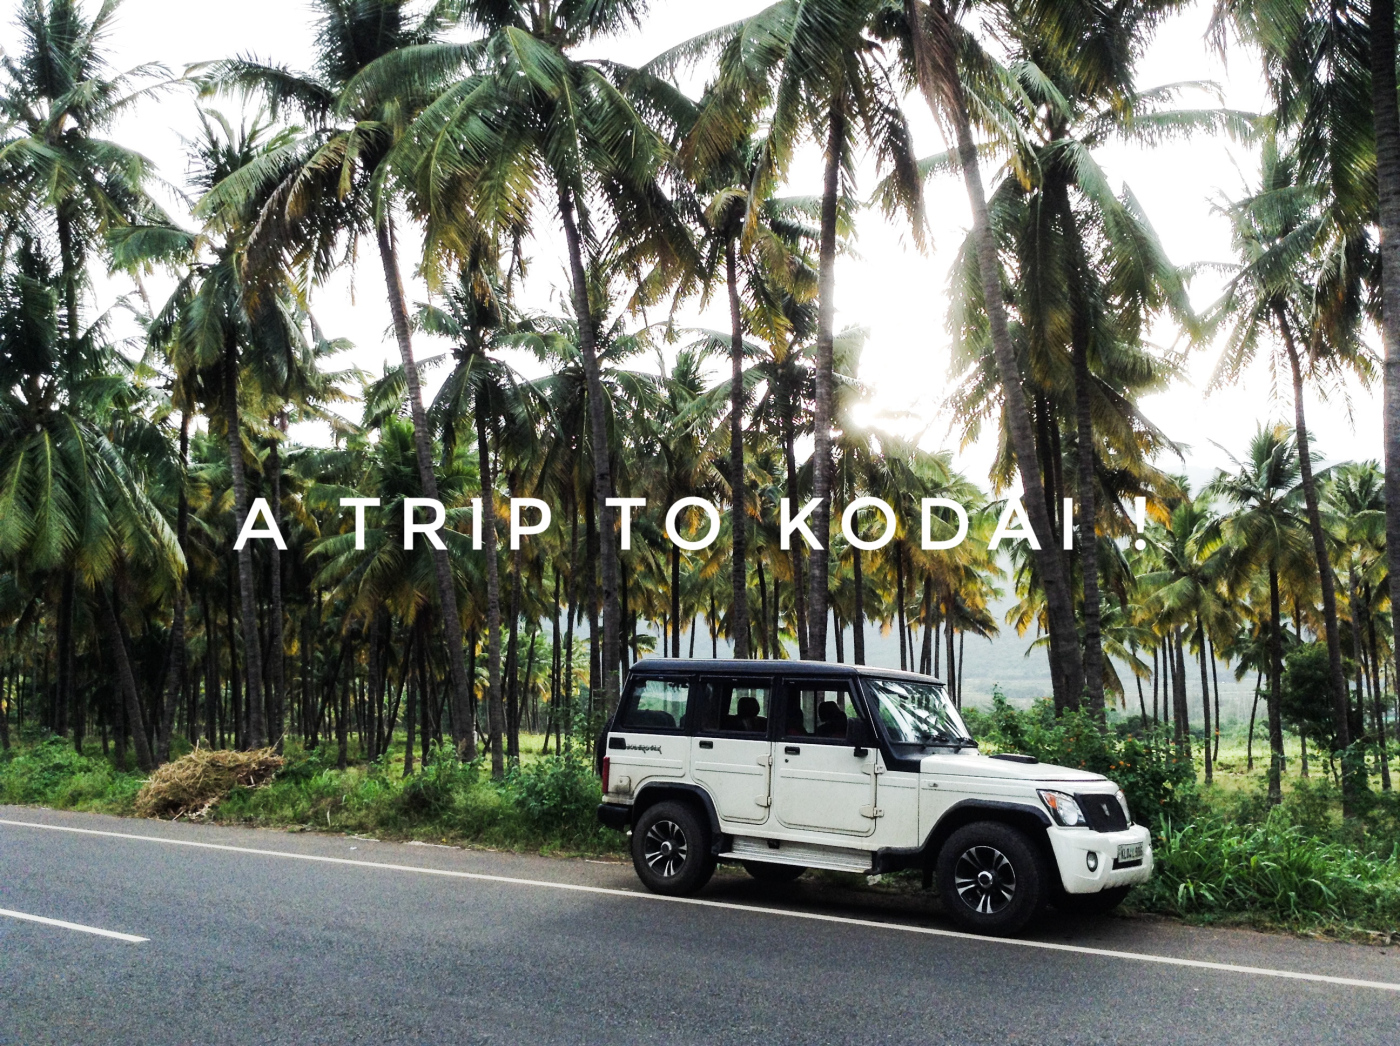
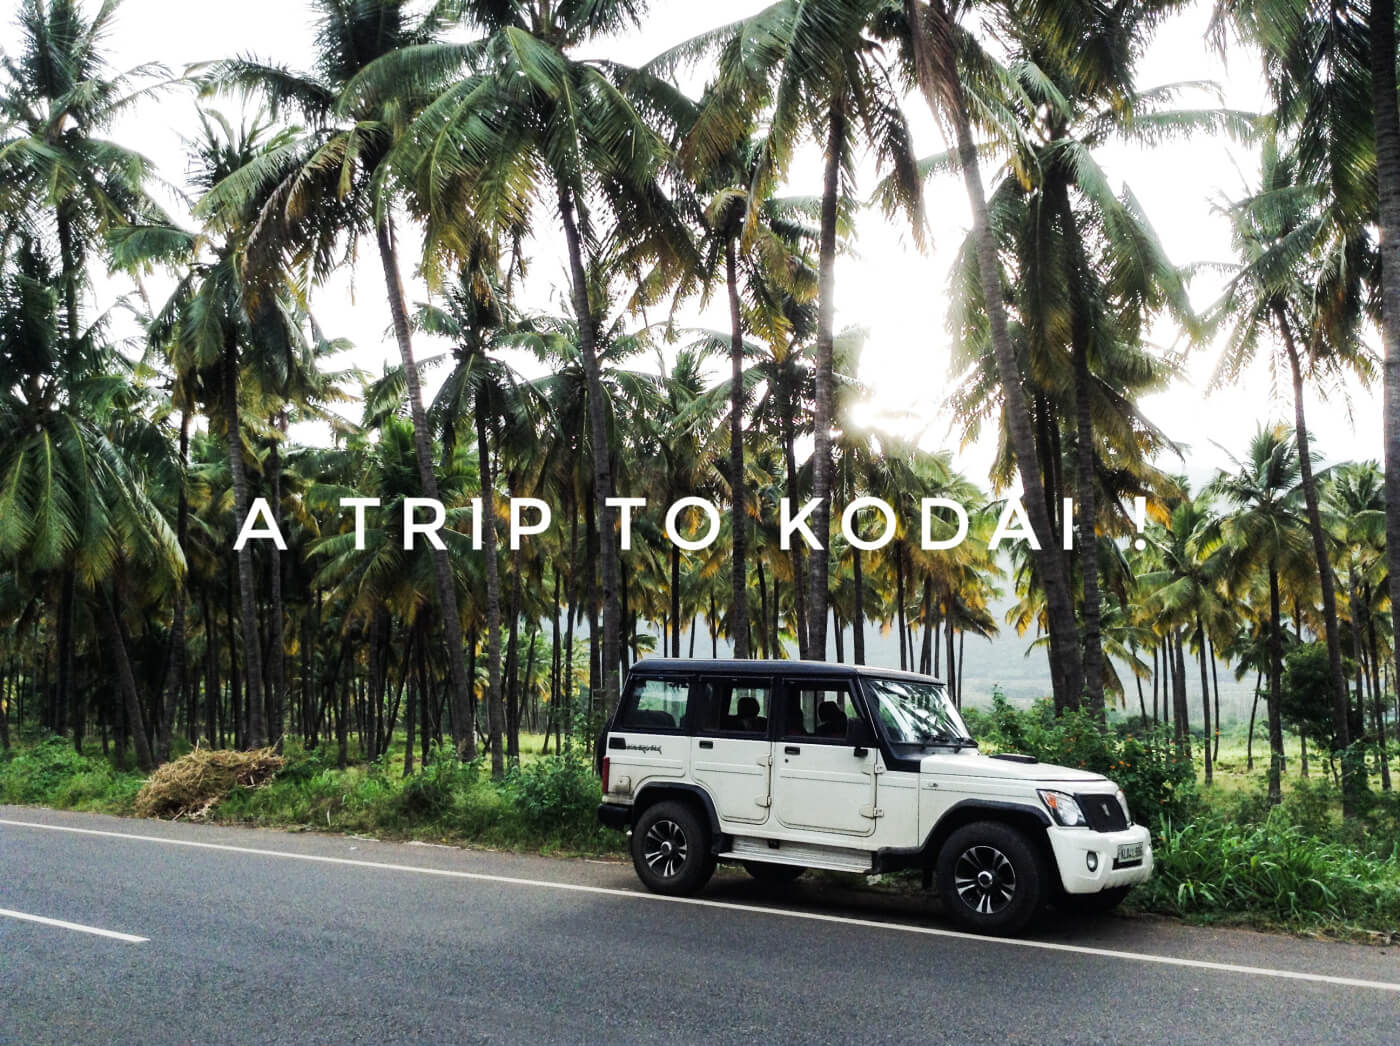
Links changed
Added new Blog, and image compressed

Changed region(s): [[0.5529, 0.3977, 0.5836, 0.4283]]

diff --git a/index.html b/index.html
@@ -31,23 +31,26 @@
                 <div class="container box_1620">
                     <!-- Brand and toggle get grouped for better mobile display -->
                     <!-- <a class="navbar-brand logo_h" href="index.html"><img src="img/logo.png" alt=""></a> -->
-                    <button class="navbar-toggler" type="button" data-toggle="collapse" data-target="#navbarSupportedContent" aria-controls="navbarSupportedContent" aria-expanded="false" aria-label="Toggle navigation">
-						<span class="icon-bar"></span>
-						<span class="icon-bar"></span>
-						<span class="icon-bar"></span>
-					</button>
+                    <button class="navbar-toggler" type="button" data-toggle="collapse"
+                        data-target="#navbarSupportedContent" aria-controls="navbarSupportedContent"
+                        aria-expanded="false" aria-label="Toggle navigation">
+                        <span class="icon-bar"></span>
+                        <span class="icon-bar"></span>
+                        <span class="icon-bar"></span>
+                    </button>
                     <!-- Collect the nav links, forms, and other content for toggling -->
                     <div class="collapse navbar-collapse offset" id="navbarSupportedContent">
                         <ul class="nav navbar-nav menu_nav ml-auto">
                             <li class="nav-item active">
                                 <a class="nav-link" href="index.html">
-									Home
-								</a>
+                                    Home
+                                </a>
                             </li>
                             <li class="nav-item"><a class="nav-link" href="about-us.html">About</a></li>
                             <li class="nav-item submenu dropdown">
                                 <a href="project.html" class="nav-link">Projects</a></li>
-                            <li class="nav-item submenu dropdown"><a href="https://www.blog.sijusamson.com/" target="_blank" class="nav-link">Blog</a></li>
+                            <li class="nav-item submenu dropdown"><a href="https://www.blog.sijusamson.com/"
+                                    target="_blank" class="nav-link">Blog</a></li>
                             <!-- <li class="nav-item"><a class="nav-link" href="contact.html">Contact</a></li> -->
                         </ul>
                     </div>
@@ -71,27 +74,29 @@
                                 <h6>Hello Everybody, I am</h6>
                                 <h3>Siju Samson</h3>
                                 <h4>A Software Developer</h4>
-                                <p>I am passionate about crafting user-friendly experiences and building ground-breaking applications.
+                                <p>I am passionate about crafting user-friendly experiences and building ground-breaking
+                                    applications.
                                 </p>
                                 <ul class="list basic_info">
                                     <li><a href="#"><i class="lnr lnr-calendar-full"></i> 4th June, 1995</a></li>
                                     <!-- <li><a href="#"><i class="lnr lnr-phone-handset"></i> 44 (012) 6954 783</a></li> -->
                                     <li><a href="mailto:sijusamson@gmail.com"><i class="lnr lnr-envelope"></i>
-											sijusamson@gmail.com</a></li>
+                                            sijusamson@gmail.com</a></li>
                                     <li><a href="#"><i class="lnr lnr-home"></i> Delhi, India</a></li>
                                 </ul>
                                 <ul class="list personal_social">
-                                    <li><a href="https://www.linkedin.com/in/siju-samson/"><i
-												class="fa fa-linkedin" aria-hidden="true"></i></a></li>
+                                    <li><a href="https://www.linkedin.com/in/siju-samson/"><i class="fa fa-linkedin"
+                                                aria-hidden="true"></i></a></li>
                                     <li><a href="https://github.com/sijusamson"><i class="fa fa-github"
-												aria-hidden="true"></i></a></li>
+                                                aria-hidden="true"></i></a></li>
                                     <li><a href="https://stackoverflow.com/users/9721458/siju-samson?tab=topactivity"><i
-												class="fa fa-stack-overflow" aria-hidden="true"></i></a></li>
-                                    <li><a href="https://twitter.com/SamsonSiju"><i class="fa fa-twitter" aria-hidden="true"></i></a></li>
+                                                class="fa fa-stack-overflow" aria-hidden="true"></i></a></li>
+                                    <li><a href="https://twitter.com/SamsonSiju"><i class="fa fa-twitter"
+                                                aria-hidden="true"></i></a></li>
                                     <li><a href="https://www.instagram.com/sijusamson/?hl=en"><i
-												class="fa fab fa-instagram" aria-hidden="true"></i></a></li>
+                                                class="fa fab fa-instagram" aria-hidden="true"></i></a></li>
                                     <li><a href="https://www.facebook.com/siju.samson?ref=bookmarks"><i
-												class="fa fa-facebook" aria-hidden="true"></i></a></li>
+                                                class="fa fa-facebook" aria-hidden="true"></i></a></li>
 
                                 </ul>
                             </div>
@@ -123,7 +128,8 @@
                                 <h4>Angular <span class="counter">70</span>%</h4>
                                 <div class="progress_br">
                                     <div class="progress">
-                                        <div class="progress-bar" role="progressbar" aria-valuenow="70" aria-valuemin="0" aria-valuemax="100"></div>
+                                        <div class="progress-bar" role="progressbar" aria-valuenow="70"
+                                            aria-valuemin="0" aria-valuemax="100"></div>
                                     </div>
                                 </div>
                             </div>
@@ -131,7 +137,8 @@
                                 <h4>JavaScript <span class="counter">65</span>%</h4>
                                 <div class="progress_br">
                                     <div class="progress">
-                                        <div class="progress-bar" role="progressbar" aria-valuenow="65" aria-valuemin="0" aria-valuemax="100"></div>
+                                        <div class="progress-bar" role="progressbar" aria-valuenow="65"
+                                            aria-valuemin="0" aria-valuemax="100"></div>
                                     </div>
                                 </div>
                             </div>
@@ -139,7 +146,8 @@
                                 <h4>CSS3 <span class="counter">60</span>%</h4>
                                 <div class="progress_br">
                                     <div class="progress">
-                                        <div class="progress-bar" role="progressbar" aria-valuenow="60" aria-valuemin="0" aria-valuemax="100"></div>
+                                        <div class="progress-bar" role="progressbar" aria-valuenow="60"
+                                            aria-valuemin="0" aria-valuemax="100"></div>
                                     </div>
                                 </div>
                             </div>
@@ -153,7 +161,8 @@
                                 <h4>React <span class="counter">50</span>%</h4>
                                 <div class="progress_br">
                                     <div class="progress">
-                                        <div class="progress-bar" role="progressbar" aria-valuenow="50" aria-valuemin="0" aria-valuemax="100"></div>
+                                        <div class="progress-bar" role="progressbar" aria-valuenow="50"
+                                            aria-valuemin="0" aria-valuemax="100"></div>
                                     </div>
                                 </div>
                             </div>
@@ -162,7 +171,8 @@
                                 <h4>NodeJS <span class="counter">60</span>%</h4>
                                 <div class="progress_br">
                                     <div class="progress">
-                                        <div class="progress-bar" role="progressbar" aria-valuenow="60" aria-valuemin="0" aria-valuemax="100"></div>
+                                        <div class="progress-bar" role="progressbar" aria-valuenow="60"
+                                            aria-valuemin="0" aria-valuemax="100"></div>
                                     </div>
                                 </div>
                             </div>
@@ -171,7 +181,8 @@
                                 <h4>HTML5 <span class="counter">75</span>%</h4>
                                 <div class="progress_br">
                                     <div class="progress">
-                                        <div class="progress-bar" role="progressbar" aria-valuenow="75" aria-valuemin="0" aria-valuemax="100"></div>
+                                        <div class="progress-bar" role="progressbar" aria-valuenow="75"
+                                            aria-valuemin="0" aria-valuemax="100"></div>
                                     </div>
                                 </div>
                             </div>
@@ -189,10 +200,12 @@
             <div class="tabs_inner">
                 <ul class="nav nav-tabs" id="myTab" role="tablist">
                     <li class="nav-item">
-                        <a class="nav-link active" id="home-tab" data-toggle="tab" href="#home" role="tab" aria-controls="home" aria-selected="true">My Experiences</a>
+                        <a class="nav-link active" id="home-tab" data-toggle="tab" href="#home" role="tab"
+                            aria-controls="home" aria-selected="true">My Experiences</a>
                     </li>
                     <li class="nav-item">
-                        <a class="nav-link" id="profile-tab" data-toggle="tab" href="#profile" role="tab" aria-controls="profile" aria-selected="false">My Education</a>
+                        <a class="nav-link" id="profile-tab" data-toggle="tab" href="#profile" role="tab"
+                            aria-controls="profile" aria-selected="false">My Education</a>
                     </li>
                 </ul>
                 <div class="tab-content" id="myTabContent">
@@ -263,7 +276,8 @@
         <div class="container">
             <div class="main_title">
                 <h2>My Projects</h2>
-                <p>My personal contributions and creativity outside my office work arena motivate me to grow professionally.
+                <p>My personal contributions and creativity outside my office work arena motivate me to grow
+                    professionally.
                 </p>
             </div>
         </div>
@@ -302,75 +316,127 @@
             <div class="row d-flex">
                 <div class="col-md-4 d-flex ftco-animate">
                     <div class="blog-entry justify-content-end">
-                        <a href="https://sijusamson.wordpress.com/2020/07/25/how-to-add-a-readme-to-github-profile/" class="block-20" style="background-image: url('img/blog4.jpg');">
+                        <a href="https://www.blog.sijusamson.com/2020/08/18/how-to-become-a-web-developer-in-3-months/"
+                            target="_blank" class="block-20" style="background-image: url('img/web-developer.jpg');">
                         </a>
                         <div class="text mt-3 float-right d-block">
                             <div class="d-flex align-items-center mb-3 meta">
                                 <p class="mb-0">
                                     <span class="mr-2">July 25, 2020</span>
-                                    <a href="https://sijusamson.wordpress.com/2020/07/25/how-to-add-a-readme-to-github-profile/" class="mr-2">Siju Samson</a>
-                                    <a href="https://sijusamson.wordpress.com/2020/07/25/how-to-add-a-readme-to-github-profile/" class="meta-chat"><span class="icon-chat"></span>0</a>
+                                    <a href="https://www.blog.sijusamson.com/2020/08/18/how-to-become-a-web-developer-in-3-months/"
+                                        target="_blank" class="mr-2">Siju Samson</a>
+                                    <a href="https://www.blog.sijusamson.com/2020/08/18/how-to-become-a-web-developer-in-3-months/"
+                                        target="_blank" class="meta-chat"><span class="icon-chat"></span>0</a>
                                 </p>
                             </div>
-                            <h3 class="heading"><a href="https://sijusamson.wordpress.com/2020/07/25/how-to-add-a-readme-to-github-profile/">How to add a readme to Github profile</a></h3>
-                            <p>Github has recently launched a new feature named “GitHub Profile README”. As we all know, Github is a platform which provides version control and hosting for Software Development.
+                            <h3 class="heading"><a
+                                    href="https://sijusamson.wordpress.com/2020/07/25/how-to-add-a-readme-to-github-profile/">How
+                                    to Become a Web Developer in 3 months?</a></h3>
+                            <p>If you have come across this blog, I am assuming you are a fresher, or you want to change
+                                your career to Web
+                                Development. This…
+                            </p>
+                        </div>
+                    </div>
+                </div>
+                <div class="col-md-4 d-flex ftco-animate">
+                    <div class="blog-entry justify-content-end">
+                        <a href="https://www.blog.sijusamson.com/2020/07/25/how-to-add-a-readme-to-github-profile/"
+                            target="_blank" class="block-20" style="background-image: url('img/blog4.jpg');">
+                        </a>
+                        <div class="text mt-3 float-right d-block">
+                            <div class="d-flex align-items-center mb-3 meta">
+                                <p class="mb-0">
+                                    <span class="mr-2">July 25, 2020</span>
+                                    <a href="https://www.blog.sijusamson.com/2020/07/25/how-to-add-a-readme-to-github-profile/"
+                                        target="_blank" class="mr-2">Siju Samson</a>
+                                    <a href="https://www.blog.sijusamson.com/2020/07/25/how-to-add-a-readme-to-github-profile/"
+                                        class="meta-chat"><span class="icon-chat"></span>2</a>
+                                </p>
+                            </div>
+                            <h3 class="heading"><a
+                                    href="https://www.blog.sijusamson.com/2020/07/25/how-to-add-a-readme-to-github-profile/"
+                                    target="_blank">How
+                                    to add a readme to Github profile</a></h3>
+                            <p>Github has recently launched a new feature named “GitHub Profile README”. As we all know,
+                                Github is a platform which provides version control and hosting for Software
+                                Development.
                             </p>
                         </div>
                     </div>
                 </div>
                 <div class="col-md-4 d-flex ftco-animate">
                     <div class="blog-entry">
-                        <a href="https://sijusamson.wordpress.com/2020/05/26/trip-to-kodaikanal/#more-135" class="block-20" style="background-image: url('img/blog3.jpg');">
+                        <a href="https://www.blog.sijusamson.com/2020/05/26/trip-to-kodaikanal/" target="_blank"
+                            class="block-20" style="background-image: url('img/blog3.jpg');">
                         </a>
                         <div class="text mt-3 float-right d-block">
                             <div class="d-flex align-items-center mb-3 meta">
                                 <p class="mb-0">
                                     <span class="mr-2">May 26, 2020</span>
-                                    <a href="https://sijusamson.wordpress.com/2020/05/26/trip-to-kodaikanal/#more-135" class="mr-2">Siju Samson</a>
-                                    <a href="https://sijusamson.wordpress.com/2020/05/26/trip-to-kodaikanal/#more-135" class="meta-chat"><span class="icon-chat"></span>2</a>
+                                    <a href="https://www.blog.sijusamson.com/2020/05/26/trip-to-kodaikanal/"
+                                        target="_blank" class="mr-2">Siju Samson</a>
+                                    <a href="https://www.blog.sijusamson.com/2020/05/26/trip-to-kodaikanal/"
+                                        target="_blank" class="meta-chat"><span class="icon-chat"></span>3</a>
                                 </p>
                             </div>
-                            <h3 class="heading"><a href="https://sijusamson.wordpress.com/2020/05/26/trip-to-kodaikanal/#more-135">A
-									Trip to Kodai</a></h3>
-                            <p>Going down my memory lane, I was thinking about the trips we used to make during my college days in Kerala. We were young, and sometimes did silly things but that turned out to be the best moments of our lives. I am sure all
+                            <h3 class="heading"><a href="https://www.blog.sijusamson.com/2020/05/26/trip-to-kodaikanal/"
+                                    target="_blank">A
+                                    Trip to Kodai</a></h3>
+                            <p>Going down my memory lane, I was thinking about the trips we used to make during my
+                                college days in Kerala. We were young, and sometimes did silly things but that turned
+                                out to be the best moments of our lives. I am sure all
                                 my college mates would agree with that. Yesterday, I was...</p>
                         </div>
                     </div>
                 </div>
                 <div class="col-md-4 d-flex ftco-animate">
                     <div class="blog-entry justify-content-end">
-                        <a href="https://sijusamson.wordpress.com/2020/05/02/how-to-stay-active-during-quarantine/#more-125" class="block-20" style="background-image: url('img/blog2.jpg');">
+                        <a href="https://www.blog.sijusamson.com/2020/05/02/how-to-stay-active-during-quarantine/"
+                            target="_blank" class="block-20" style="background-image: url('img/blog2.jpg');">
                         </a>
                         <div class="text mt-3 float-right d-block">
                             <div class="d-flex align-items-center mb-3 meta">
                                 <p class="mb-0">
                                     <span class="mr-2">May 2, 2020</span>
-                                    <a href="https://sijusamson.wordpress.com/2020/05/02/how-to-stay-active-during-quarantine/#more-125" class="mr-2">Siju Samson</a>
-                                    <a href="https://sijusamson.wordpress.com/2020/05/02/how-to-stay-active-during-quarantine/#more-125" class="meta-chat"><span class="icon-chat"></span>13</a>
+                                    <a href="https://www.blog.sijusamson.com/2020/05/02/how-to-stay-active-during-quarantine/"
+                                        target="_blank" class="mr-2">Siju Samson</a>
+                                    <a href="https://www.blog.sijusamson.com/2020/05/02/how-to-stay-active-during-quarantine/"
+                                        class="meta-chat"><span class="icon-chat"></span>13</a>
                                 </p>
                             </div>
-                            <h3 class="heading"><a href="https://sijusamson.wordpress.com/2020/05/02/how-to-stay-active-during-quarantine/#more-125">How
-									to stay Active during Quarantine</a></h3>
-                            <p>COVID-19 has impacted the whole world, and has forced us to stay at our homes and maintain social distancing. But this shouldn’t stop us from staying active and healthy.
+                            <h3 class="heading"><a
+                                    href="https://www.blog.sijusamson.com/2020/05/02/how-to-stay-active-during-quarantine/"
+                                    target="_blank">How
+                                    to stay Active during Quarantine</a></h3>
+                            <p>COVID-19 has impacted the whole world, and has forced us to stay at our homes and
+                                maintain social distancing. But this shouldn’t stop us from staying active and healthy.
                             </p>
                         </div>
                     </div>
                 </div>
                 <div class="col-md-4 d-flex ftco-animate">
                     <div class="blog-entry">
-                        <a href="https://sijusamson.wordpress.com/2020/04/21/places-to-visit-in-goa/#more-113" class="block-20" style="background-image: url('img/blog1.jpg');">
+                        <a href="https://www.blog.sijusamson.com/2020/04/21/places-to-visit-in-goa/" target="_blank"
+                            class="block-20" style="background-image: url('img/blog1.jpg');">
                         </a>
                         <div class="text mt-3 float-right d-block">
                             <div class="d-flex align-items-center mb-3 meta">
                                 <p class="mb-0">
                                     <span class="mr-2">April 21, 2020</span>
-                                    <a href="https://sijusamson.wordpress.com/2020/04/21/places-to-visit-in-goa/#more-113" class="mr-2">Siju Samson</a>
-                                    <a href="https://sijusamson.wordpress.com/2020/04/21/places-to-visit-in-goa/#more-113" class="meta-chat"><span class="icon-chat"></span>5</a>
+                                    <a href="https://www.blog.sijusamson.com/2020/04/21/places-to-visit-in-goa/"
+                                        target="_blank" class="mr-2">Siju Samson</a>
+                                    <a href="https://www.blog.sijusamson.com/2020/04/21/places-to-visit-in-goa/"
+                                        class="meta-chat"><span class="icon-chat"></span>8</a>
                                 </p>
                             </div>
-                            <h3 class="heading"><a href="https://sijusamson.wordpress.com/2020/04/21/places-to-visit-in-goa/#more-113">Places
-									to visit in Goa</a></h3>
-                            <p>Since a long time, I have been planning to start my own blog, where I can share experiences of my life. This particular one relates to a trip with 15 other friends to Goa, India.</p>
+                            <h3 class="heading"><a
+                                    href="https://www.blog.sijusamson.com/2020/04/21/places-to-visit-in-goa/"
+                                    target="_blank">Places
+                                    to visit in Goa</a></h3>
+                            <p>Since a long time, I have been planning to start my own blog, where I can share
+                                experiences of my life. This particular one relates to a trip with 15 other friends to
+                                Goa, India.</p>
                         </div>
                     </div>
                 </div>
@@ -388,12 +454,12 @@
                     <aside class="f_widget ab_widget">
                         <p>
                             <small>
-								Copyright &copy;
-								<script>document.write(new Date().getFullYear());</script> All rights reserved | This
-								template is made with <i class="fa fa-heart-o" aria-hidden="true"></i> by <a
-									href="https://colorlib.com" target="_blank">Colorlib</a>
+                                Copyright &copy;
+                                <script>document.write(new Date().getFullYear());</script> All rights reserved | This
+                                template is made with <i class="fa fa-heart-o" aria-hidden="true"></i> by <a
+                                    href="https://colorlib.com" target="_blank">Colorlib</a>
 
-							</small>
+                            </small>
                     </aside>
                 </div>
             </div>
